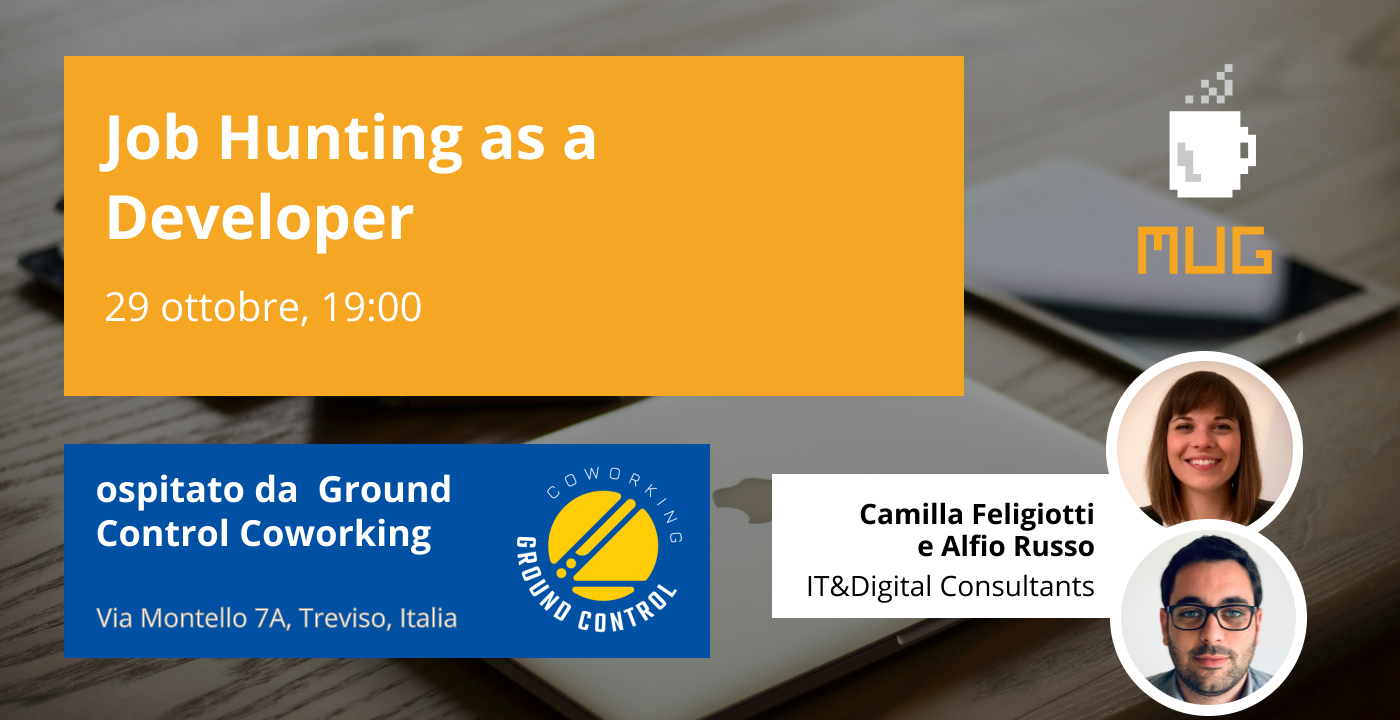
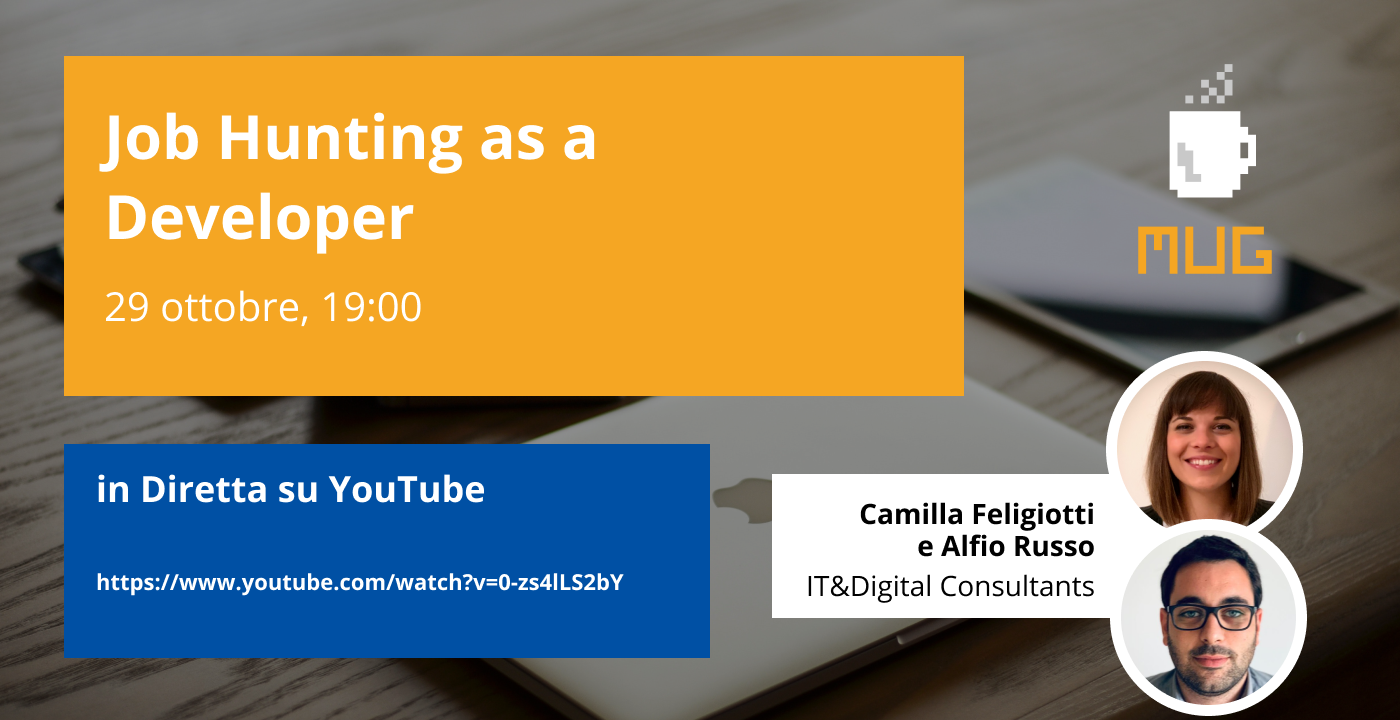
corregge copertina evento di ottobre

Changed region(s): [[0.0614, 0.6417, 0.4914, 0.8861], [0.0614, 0.6417, 0.3686, 0.7639]]

diff --git a/_posts/2020-10-29-job-hunting-as-a-developer.md b/_posts/2020-10-29-job-hunting-as-a-developer.md
@@ -12,7 +12,7 @@ eventbrite_url: https://www.eventbrite.it/e/biglietti-job-hunting-as-a-developer
 [EDIT]
 
 con gli speaker, abbiamo reputato più saggio fare fallback su un evento remoto 👩💻👨💻
-<br/>👉  Vi aspettiamo comunque giovedì 29 alle 19:00 🎬 all'evento "Job Hunting as a Developer" di Camilla Feligiotti e Alfio Russo, al seguente indirizzo
+<br/>👉  Vi aspettiamo comunque giovedì 29 alle 19:30 🎬 all'evento "Job Hunting as a Developer" di Camilla Feligiotti e Alfio Russo, al seguente indirizzo
 
 <br/><a href="https://www.youtube.com/watch?v=0-zs4lLS2bY" target="_black">https://www.youtube.com/watch?v=0-zs4lLS2bY</a>
 
